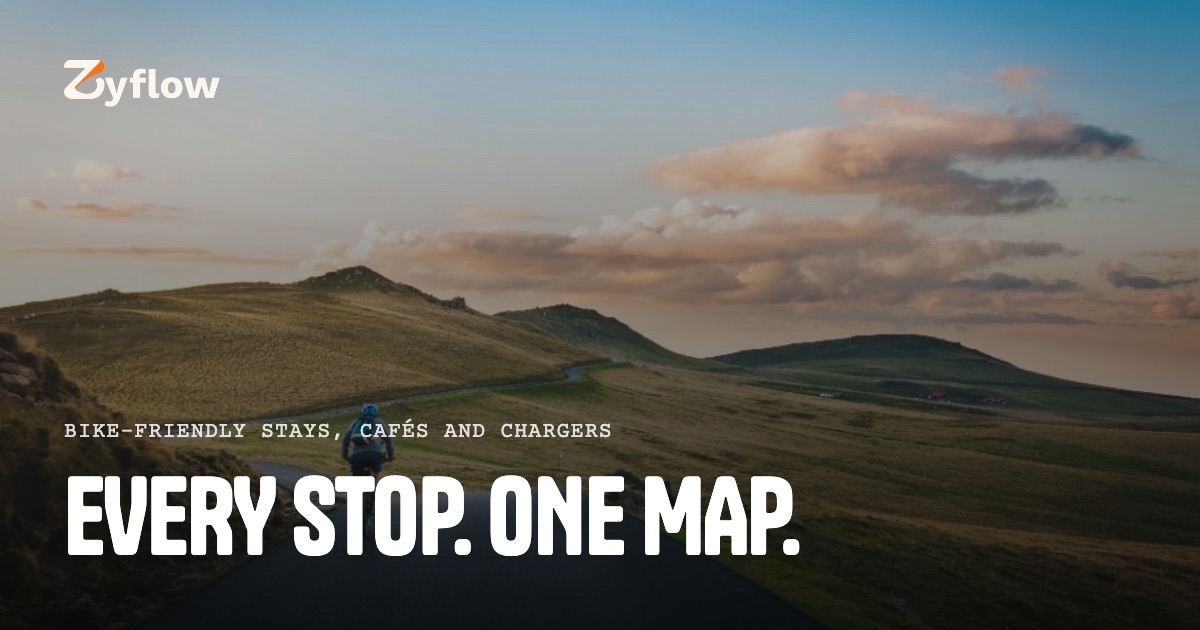
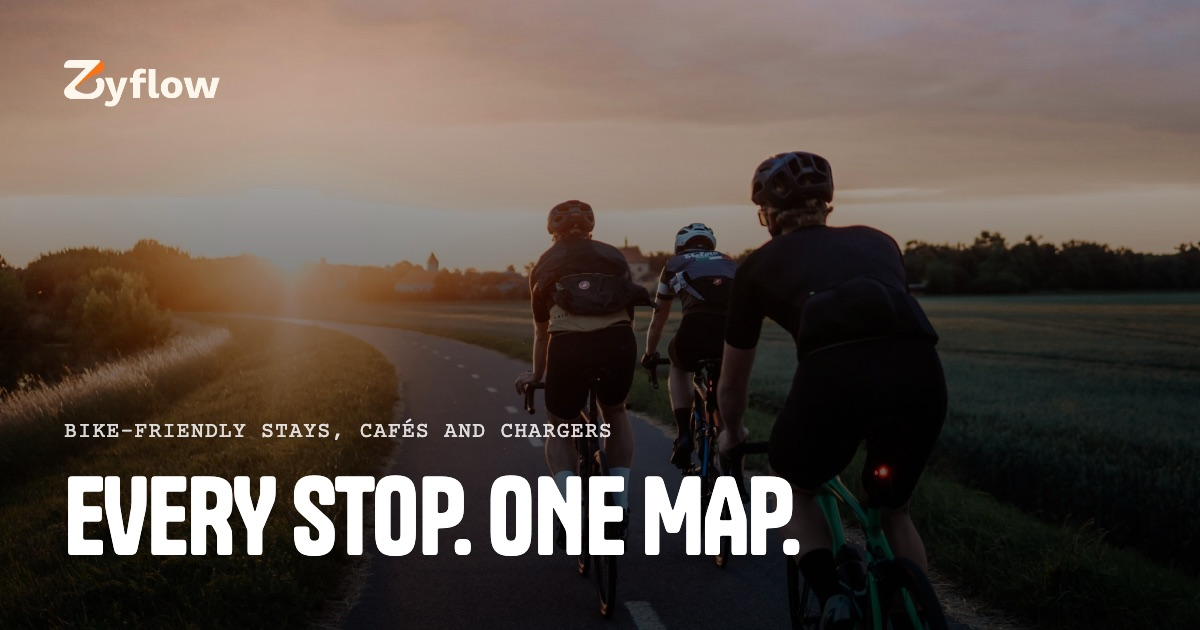
Home hero: sharp photo, linked route carousel; E+ page width (#84)
- Home hero photo replaced (old one was 1024px and grainy); share
  images og/zyflow-{en,sl}.jpg re-rendered from it
- Hero card is now a carousel of three linked routes (Blejčanka,
  Ločanka, Ravenska Kočna): slow crossfade, dots, pauses on hover,
  focus and hidden tabs, no auto-advance with reduced motion. Replaces
  "Ljubljana to Trieste", which had no route page
- Hero shading no longer shows a hard line on narrow screens
  (ellipse instead of circle gradient)
- Route card text is white on the dark glass
- /e-plus-destinacije: hides the extra in-page language switch, uses
  the normal 1280px page width with readable 72ch text, and serves the
  photo up to 1600px instead of 640px
- Asset test finds the hero by position, not by alt text

diff --git a/rebuild/sections/home/hero.html b/rebuild/sections/home/hero.html
@@ -1,7 +1,7 @@
 <section class="hero section" data-section="home.hero">
   <div class="hero__frame">
     <div class="hero__media" aria-hidden="true">
-      <img src="./assets/images/home/hero.jpg" alt="Cyclist riding a scenic road" />
+      <img src="./assets/images/home/hero.jpg" alt="Three road cyclists riding a cycle path into the sunset" />
       <div class="hero__scrim"></div>
     </div>
     <div class="hero__content">
@@ -12,16 +12,51 @@
       <p class="hero__sub" data-i18n="home.hero.subtitle">Smart navigation for cyclists and e-bike riders. Battery, elevation, and weather before you leave.</p>
       <a class="btn btn--primary" href="{{appStoreUrl}}" data-app-modal-open data-i18n="home.hero.cta">Plan your first route</a>
     </div>
-    <aside class="hero__card">
-      <div class="hero__card-media">
-        <img class="hero__card-thumb" src="./assets/images/home/hero-thumb.jpg" alt="Ljubljana to Trieste route" />
+    <!-- Featured routes: three linked slides, slow crossfade (js/home.js initHeroCarousel).
+         Pick routes NOT shown in the "adventures" section below. -->
+    <aside class="hero__card" data-hero-carousel aria-roledescription="carousel" data-i18n-aria-label="home.hero.slidesLabel" aria-label="Featured routes">
+      <div class="hero__slides">
+        <a class="hero__slide is-active" href="./tours/blejcanka.html" aria-roledescription="slide">
+          <span class="hero__card-media">
+            <img class="hero__card-thumb" src="./assets/images/tours/blejcanka/cover.webp" alt="" />
+          </span>
+          <span class="hero__card-body">
+            <span class="hero__card-label"><span class="motif" aria-hidden="true"></span><span data-i18n="home.hero.nextDepartureLabel">Featured route</span></span>
+            <span>
+              <span class="hero__card-title" data-i18n-html="routes.blejcanka.titleHtml">Blejčanka</span>
+              <span class="hero__card-date" data-i18n="home.hero.slides.blejcanka">79 km · +944 m</span>
+            </span>
+          </span>
+        </a>
+        <a class="hero__slide" href="./tours/locanka.html" aria-roledescription="slide" aria-hidden="true" tabindex="-1">
+          <span class="hero__card-media">
+            <img class="hero__card-thumb" src="./assets/images/tours/locanka/cover.webp" alt="" loading="lazy" />
+          </span>
+          <span class="hero__card-body">
+            <span class="hero__card-label"><span class="motif" aria-hidden="true"></span><span data-i18n="home.hero.nextDepartureLabel">Featured route</span></span>
+            <span>
+              <span class="hero__card-title" data-i18n-html="routes.locanka.titleHtml">Ločanka</span>
+              <span class="hero__card-date" data-i18n="home.hero.slides.locanka">64 km · +930 m</span>
+            </span>
+          </span>
+        </a>
+        <a class="hero__slide" href="./tours/ravenska-kocna.html" aria-roledescription="slide" aria-hidden="true" tabindex="-1">
+          <span class="hero__card-media">
+            <img class="hero__card-thumb" src="./assets/images/tours/ravenska-kocna/cover.jpg" alt="" loading="lazy" />
+          </span>
+          <span class="hero__card-body">
+            <span class="hero__card-label"><span class="motif" aria-hidden="true"></span><span data-i18n="home.hero.nextDepartureLabel">Featured route</span></span>
+            <span>
+              <span class="hero__card-title" data-i18n-html="routes.ravenska-kocna.titleHtml">Ravenska Kočna</span>
+              <span class="hero__card-date" data-i18n="home.hero.slides.ravenska-kocna">16.6 km · +408 m</span>
+            </span>
+          </span>
+        </a>
       </div>
-      <div class="hero__card-body">
-        <div class="hero__card-label"><span class="motif" aria-hidden="true"></span><span data-i18n="home.hero.nextDepartureLabel">Featured Route</span></div>
-        <div>
-          <p class="hero__card-title" data-i18n="home.hero.nextDepartureTitle">Ljubljana to Trieste</p>
-          <p class="hero__card-date" data-i18n="home.hero.nextDepartureDate">134 km · +1,766 m</p>
-        </div>
+      <div class="hero__dots" role="group" data-i18n-aria-label="home.hero.slidesNav" aria-label="Choose a route">
+        <button type="button" class="hero__dot is-active" aria-current="true" data-slide="0"><span class="visually-hidden">1</span></button>
+        <button type="button" class="hero__dot" data-slide="1"><span class="visually-hidden">2</span></button>
+        <button type="button" class="hero__dot" data-slide="2"><span class="visually-hidden">3</span></button>
       </div>
     </aside>
   </div>

diff --git a/rebuild/css/home.css b/rebuild/css/home.css
@@ -966,8 +966,10 @@ html[data-theme="light"] .footer__launch-badge .footer__launch-badge-img--light 
   height: 120%;
   left: -20%;
   top: -40%;
+  /* Ellipse, not circle: it scales with the box, so it always fades out before
+     the box edge. A circle overshot the right edge on narrow screens (hard line). */
   background: radial-gradient(
-    circle,
+    ellipse farthest-corner,
     color-mix(in srgb, var(--color-scrim) 85%, transparent) 0%,
     transparent 70%
   );
@@ -1025,17 +1027,82 @@ html[data-theme="light"] .footer__launch-badge .footer__launch-badge-img--light 
   right: 0;
   bottom: 48px;
   width: var(--grid-col-4);
-  display: flex;
-  gap: var(--space-gap-5);
-  padding: var(--space-gap-4) var(--space-gap-6) var(--space-gap-4) var(--space-gap-4);
   background: var(--color-motif-glass-dark);
   backdrop-filter: blur(26px);
   -webkit-backdrop-filter: blur(26px);
   border-radius: var(--radius-md) 0 0 var(--radius-md);
+  /* Dark glass: text must be light like the rest of the hero, not the page's ink. */
+  color: #fff;
+}
+
+/* Featured-route carousel: slides share one grid cell, so the card keeps the
+ * height of the tallest slide and nothing shifts while they crossfade. */
+.hero__slides {
+  display: grid;
+}
+
+.hero__slide {
+  grid-area: 1 / 1;
+  display: flex;
+  gap: var(--space-gap-5);
+  padding: var(--space-gap-4) var(--space-gap-6) var(--space-gap-4) var(--space-gap-4);
+  color: inherit;
+  text-decoration: none;
+  border-radius: inherit;
+  opacity: 0;
+  visibility: hidden;
+  transition: opacity 900ms cubic-bezier(0.4, 0, 0.2, 1), visibility 0s linear 900ms;
+}
+
+.hero__slide.is-active {
+  opacity: 1;
+  visibility: visible;
+  transition: opacity 900ms cubic-bezier(0.4, 0, 0.2, 1), visibility 0s;
+}
+
+.hero__slide:focus-visible {
+  outline: 2px solid #fff;
+  outline-offset: -4px;
+}
+
+.hero__dots {
+  position: absolute;
+  top: var(--space-gap-4);
+  right: var(--space-gap-6);
+  display: flex;
+  gap: 6px;
+  z-index: 1;
+}
+
+.hero__dot {
+  appearance: none;
+  width: 8px;
+  height: 8px;
+  padding: 0;
+  border: 0;
+  border-radius: 50%;
+  background: rgba(255, 255, 255, 0.4);
   cursor: pointer;
+  transition: background-color 400ms ease, transform 400ms ease;
+  /* 24px tap target around the 8px dot */
+  box-shadow: 0 0 0 8px transparent;
+}
+
+.hero__dot:hover {
+  background: rgba(255, 255, 255, 0.7);
+}
+
+.hero__dot.is-active {
+  background: #fff;
+}
+
+.hero__dot:focus-visible {
+  outline: 2px solid #fff;
+  outline-offset: 3px;
 }
 
 .hero__card-media {
+  display: block;
   width: 140px;
   height: 140px;
   border-radius: var(--radius-sm);
@@ -1052,8 +1119,8 @@ html[data-theme="light"] .footer__launch-badge .footer__launch-badge-img--light 
   transition: transform 480ms ease;
 }
 
-.hero__card:hover .hero__card-thumb,
-.hero__card:focus-within .hero__card-thumb {
+.hero__slide:hover .hero__card-thumb,
+.hero__slide:focus-visible .hero__card-thumb {
   transform: scale(1.08);
 }
 
@@ -1062,8 +1129,8 @@ html[data-theme="light"] .footer__launch-badge .footer__launch-badge-img--light 
     transition: none;
   }
 
-  .hero__card:hover .hero__card-thumb,
-  .hero__card:focus-within .hero__card-thumb {
+  .hero__slide:hover .hero__card-thumb,
+  .hero__slide:focus-visible .hero__card-thumb {
     transform: none;
   }
 }
@@ -1082,6 +1149,11 @@ html[data-theme="light"] .footer__launch-badge .footer__launch-badge-img--light 
   gap: var(--space-gap-4);
   font-family: var(--font-badge);
   font-size: var(--type-small);
+}
+
+.hero__card-title,
+.hero__card-date {
+  display: block;
 }
 
 .hero__card-title {
@@ -2669,6 +2741,8 @@ html[data-theme="light"] .testimonial__bg img {
     width: auto;
     margin: var(--space-gap-6);
     border-radius: var(--radius-md);
+  }
+  .hero__slide {
     align-items: center;
   }
   .hero__card-media {
@@ -2846,11 +2920,19 @@ html[data-theme="light"] .testimonial__bg img {
     max-width: 34ch;
   }
   .hero__card {
+    margin: 0 var(--space-gap-5) var(--space-gap-5);
+  }
+  .hero__slide {
     flex-direction: column;
     align-items: stretch;
     gap: var(--space-gap-4);
-    margin: 0 var(--space-gap-5) var(--space-gap-5);
     padding: var(--space-gap-4);
+  }
+  /* Dots sit under the slide on phones so they never cover the photo. */
+  .hero__dots {
+    position: static;
+    justify-content: center;
+    padding-bottom: var(--space-gap-4);
   }
   .hero__card-media {
     width: 100%;

diff --git a/rebuild/js/home.js b/rebuild/js/home.js
@@ -803,3 +803,97 @@ document.querySelectorAll(".faq__q").forEach((btn) => {
 
   apply();
 })();
+
+/**
+ * Home hero — featured-route carousel. Three linked slides that crossfade
+ * slowly (one soft gesture, per the motion rules). Auto-advances every 7 s,
+ * pauses on hover, keyboard focus and hidden tabs, and never auto-advances
+ * for reduced-motion users. Dots switch slides directly.
+ */
+(function initHeroCarousel() {
+  const root = document.querySelector("[data-hero-carousel]");
+  if (!root) return;
+  const slides = Array.from(root.querySelectorAll(".hero__slide"));
+  const dots = Array.from(root.querySelectorAll(".hero__dot"));
+  if (slides.length < 2) return;
+
+  const INTERVAL = 7000;
+  const reducedMotion = window.matchMedia("(prefers-reduced-motion: reduce)").matches;
+  let index = 0;
+  let timer = null;
+  let hovering = false;
+  let focused = false;
+
+  function show(next) {
+    index = (next + slides.length) % slides.length;
+    slides.forEach((slide, i) => {
+      const on = i === index;
+      slide.classList.toggle("is-active", on);
+      if (on) {
+        slide.removeAttribute("aria-hidden");
+        slide.removeAttribute("tabindex");
+        // Lazy thumbs: make sure the visible one is requested now.
+        const img = slide.querySelector("img[loading='lazy']");
+        if (img) img.loading = "eager";
+      } else {
+        slide.setAttribute("aria-hidden", "true");
+        slide.setAttribute("tabindex", "-1");
+      }
+    });
+    dots.forEach((dot, i) => {
+      const on = i === index;
+      dot.classList.toggle("is-active", on);
+      if (on) dot.setAttribute("aria-current", "true");
+      else dot.removeAttribute("aria-current");
+    });
+  }
+
+  function stop() {
+    if (timer) window.clearInterval(timer);
+    timer = null;
+  }
+
+  function start() {
+    stop();
+    if (reducedMotion || hovering || focused || document.hidden) return;
+    timer = window.setInterval(() => show(index + 1), INTERVAL);
+  }
+
+  dots.forEach((dot, i) => {
+    dot.addEventListener("click", () => {
+      show(i);
+      start();
+    });
+  });
+
+  root.addEventListener("mouseenter", () => {
+    hovering = true;
+    stop();
+  });
+  root.addEventListener("mouseleave", () => {
+    hovering = false;
+    start();
+  });
+  root.addEventListener("focusin", () => {
+    focused = true;
+    stop();
+  });
+  root.addEventListener("focusout", (event) => {
+    if (root.contains(event.relatedTarget)) return;
+    focused = false;
+    start();
+  });
+  document.addEventListener("visibilitychange", start);
+
+  // Preload the other thumbs once the page is idle so the crossfade never shows a blank.
+  const warm = () =>
+    slides.forEach((slide) => {
+      const img = slide.querySelector("img[loading='lazy']");
+      if (img) img.loading = "eager";
+    });
+  if ("requestIdleCallback" in window) window.requestIdleCallback(warm, { timeout: 4000 });
+  else window.setTimeout(warm, 2500);
+
+  show(0);
+  start();
+})();

diff --git a/rebuild/css/legal.css b/rebuild/css/legal.css
@@ -300,9 +300,24 @@
  * (it fills 86.2% of the "Sofinancira Evropska unija" image); every other logo
  * is capped from it. Keep --eu-flag-h at 1cm or more. */
 .page-legal-doc[data-legal="e-plus"] .legal-switch,
+.page-legal-doc[data-legal="e-plus"] .legal-doc__lang,
 .page-legal-doc[data-legal="e-plus"] .legal-doc__toc,
 .page-legal-doc[data-legal="e-plus"] .legal-doc__tag {
   display: none;
+}
+
+/* A project page, not a legal text: use the site's normal page width so it
+ * lines up with the nav like Press/About. Running text keeps a readable measure. */
+.page-legal-doc[data-legal="e-plus"] .legal-doc__inner {
+  width: 100%;
+  max-width: var(--grid-col-12);
+}
+
+.page-legal-doc[data-legal="e-plus"] .legal-doc__body p,
+.page-legal-doc[data-legal="e-plus"] .legal-doc__body ul,
+.page-legal-doc[data-legal="e-plus"] .legal-doc__body ol,
+.page-legal-doc[data-legal="e-plus"] .legal-doc__lede {
+  max-width: 72ch;
 }
 
 .eu-logos {

diff --git a/rebuild/scripts/optimize-images.js b/rebuild/scripts/optimize-images.js
@@ -32,10 +32,6 @@ const LAYOUT = {
     sizes: "(min-width: 1320px) 1280px, 100vw",
     priority: "high",
   },
-  "hero-thumb.jpg": {
-    maxCss: 280,
-    sizes: "(max-width: 720px) 46vw, 280px",
-  },
   "app-map.jpg": { maxCss: 280, sizes: "(max-width: 900px) 70vw, 240px" },
   "app-place.jpg": { maxCss: 240, sizes: "240px" },
   "app-route.jpg": { maxCss: 200, sizes: "200px" },
@@ -91,6 +87,11 @@ const LAYOUT = {
   "tour-4wd.jpg": { maxCss: 480, sizes: "(max-width: 720px) 100vw, 400px" },
   "tour-hike.jpg": { maxCss: 480, sizes: "(max-width: 720px) 100vw, 400px" },
   "tour-kayak.jpg": { maxCss: 480, sizes: "(max-width: 720px) 100vw, 400px" },
+  // E+ project page photo spans the full 1280px page width (not the 640px legal column).
+  "krvavec-kolesarjenje-jost-gantar.jpg": {
+    maxCss: 1280,
+    sizes: "(max-width: 720px) 100vw, (max-width: 1340px) 92vw, 1280px",
+  },
 };
 
 function layoutFor(sitePath) {

diff --git a/rebuild/scripts/test-asset-versioning.js b/rebuild/scripts/test-asset-versioning.js
@@ -65,7 +65,9 @@ test("built HTML references /js and /css with a content version", () => {
     assert.match(home, /fetchpriority="high"/);
     assert.doesNotMatch(home, /map-contours-featured\.svg/);
     assert.match(home, /\/assets\/images\/opt\/[0-9a-f]{12}\/map-contours\.svg/);
-    const heroImg = home.match(/<img\b[^>]*Cyclist riding a scenic road[^>]*>/);
+    // The hero photo is the first <img> inside .hero__media (alt text changes with the photo).
+    const heroMedia = home.slice(home.indexOf('class="hero__media"'));
+    const heroImg = heroMedia.match(/<img\b[^>]*>/);
     assert.ok(heroImg, "hero image should remain");
     assert.doesNotMatch(heroImg[0], /loading="lazy"/);
     assert.match(heroImg[0], /fetchpriority="high"/);
